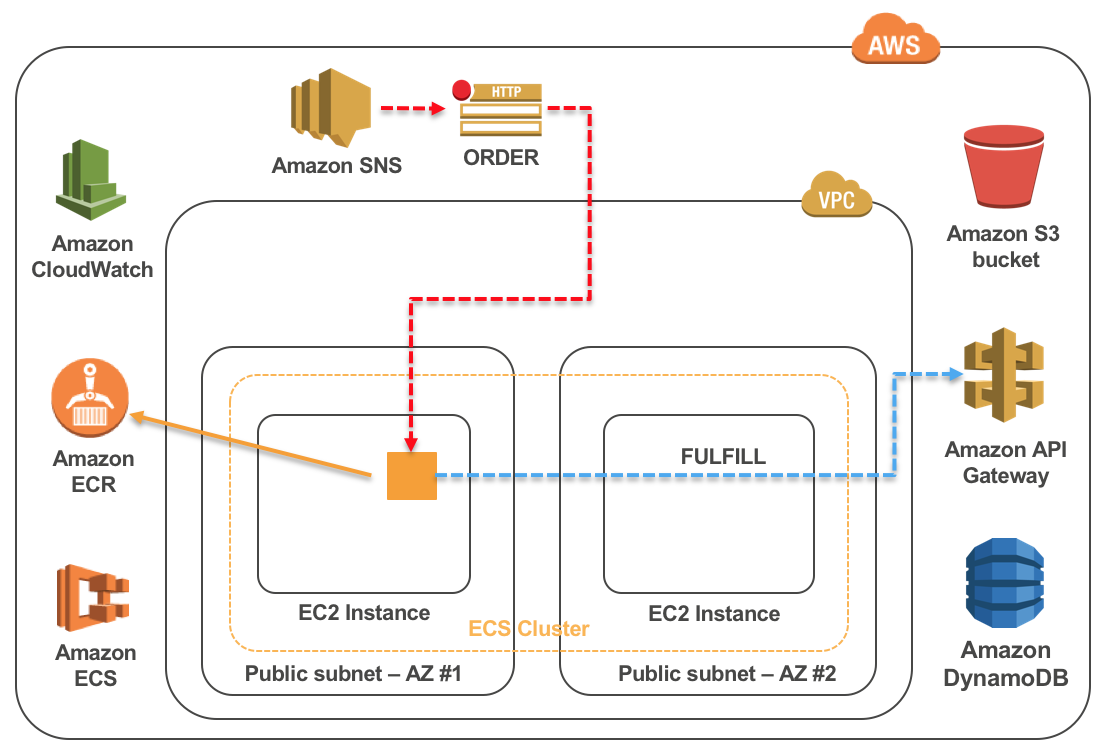
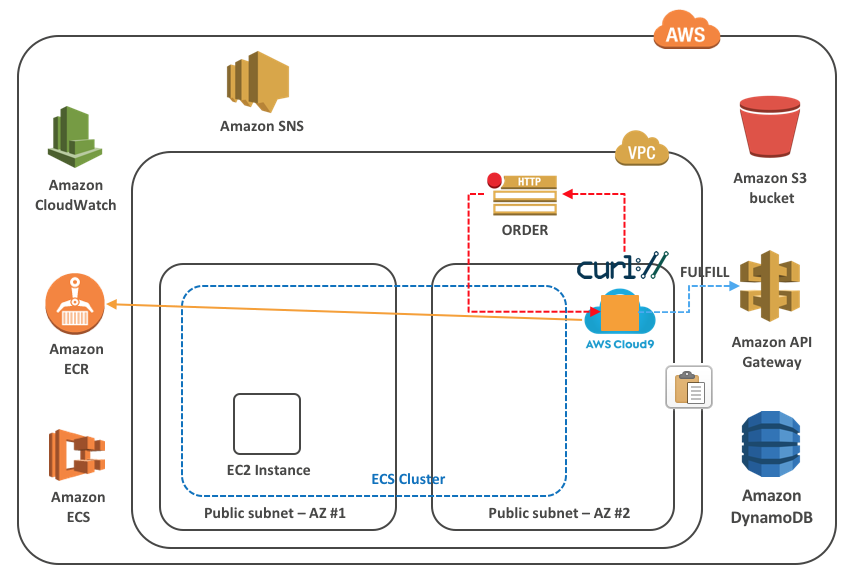
updated arch diagrams for workshop setup and lab 1, instruction edits through end of lab 1

diff --git a/workshop-microservices/readme.md b/workshop-microservices/readme.md
@@ -21,9 +21,9 @@ These labs are designed to be completed in sequence, and the full set of instruc
 
 * **Workshop Setup:** [Setup working environment on AWS](#lets-begin)
 * **Lab 1:** [Containerize the Interstella logistics software](#lab-1---containerize-interstellas-logistics-platform)
-* **Lab 2:** [Deploy containers using Amazon ECR and Amazon ECS](#lab-2---deploy-your-container-using-ecrecs)
+* **Lab 2:** [Deploy the container using Amazon ECS](#lab-2---deploy-your-container-using-ecrecs)
 * **Lab 3:** [Scale the logistics platform with an ALB](#lab-3---scale-the-logistics-platform-with-an-alb)
-* **Lab 4:** [Incrementally build and deploy each resource microservice](#lab-4-incrementally-build-and-deploy-each-microservice)
+* **Lab 4:** [Incrementally build and deploy each resource microservice using AWS Fargate](#lab-4-incrementally-build-and-deploy-each-microservice)
 * **Cleanup** [Put everything away nicely](#workshop-cleanup)
 
 ### Conventions:
@@ -129,9 +129,9 @@ Go ahead and start reading the next section while your stack creates.
 
 ## Lab 1 - Containerize Interstella's logistics platform:
 
-Woah! Turns out Interstella's infrastructure has been running directly on EC2 virtual machines this entire time! Our first step will be to modernize how our code is packaged by containerizing Interstella's current logistics platform, which we'll also refer to as the monolith application.  To do this, you will create a [Dockerfile](https://docs.docker.com/engine/reference/builder/), which is essentially a recipe for [Docker](https://aws.amazon.com/docker) to build a container image.  The EC2 instances provisioned by CloudFormation have the Docker engine running on them, so you can use either one to author the Dockerfile, build the container image, and run it to confirm it's able to process orders.
+Whoa! Turns out Interstella's infrastructure has been running directly on EC2 virtual machines this entire time! Our first step will be to modernize how our code is packaged by containerizing Interstella's current logistics platform, which we'll also refer to as the monolith application.  To do this, you will create a [Dockerfile](https://docs.docker.com/engine/reference/builder/), which is essentially a recipe for [Docker](https://aws.amazon.com/docker) to build a container image.  The CloudFormation template created an [AWS Cloud9](https://aws.amazon.com/cloud9/) development environment which is where you'll author the Dockerfile, build the container image, and run it to confirm it's able to process orders.
 
-[Containers](https://aws.amazon.com/what-are-containers/), are a way to package software (e.g. web server, proxy, database) so that you can run your code and all of its dependencies in a resource isolated process. You might be thinking, "Wait, isn't that a virtual machine (VM)?" Containers virtualize the operating system, while VMs virtualize the hardware. Containers provide isolation, portability and repeatability, so your developers can easily spin up an environment and start building without the heavy lifting.  Importantly, containers ensure your code runs in the same way anywhere, so if it works on your laptop, it will also work in production.
+[Containers](https://aws.amazon.com/what-are-containers/) are a way to package software (e.g. web server, proxy, database) so that you can run your code and all of its dependencies in a resource isolated process. You might be thinking, "Wait, isn't that a virtual machine (VM)?" Containers virtualize the operating system, while VMs virtualize the hardware. Containers provide isolation, portability and repeatability, so your developers can easily spin up an environment and start building without the heavy lifting.  Importantly, containers ensure your code runs in the same way anywhere, so if it works on your laptop, it will also work in production.
 
 ### Here's what we're going to build:
 
@@ -141,6 +141,7 @@ Woah! Turns out Interstella's infrastructure has been running directly on EC2 vi
 
 
 * * *
+
 ### Instructions
 
 1\. Access your AWS Cloud9 Development Environment.
@@ -149,38 +150,38 @@ In the AWS Management Console, go to the [Cloud9 Dashboard](https://console.aws.
 
 ![Cloud9 Env](images/01-c9.png)
 
-2\. Familiarize yourself with the Cloud9 Environment. 
+2\. Familiarize yourself with the Cloud9 Environment.
 
-On the left pane (Blue), you'll see a folder navigation structure where you'll see some files that will be downloaded later. In the middle (Red) pane, any documents you open will show up here. Double click on README.md in the left folder pane and edit the file a bit in the middle. Then save it by clicking **File** and **Save**.
+On the left pane (Blue), you'll see a file tree where you'll see some files that will be downloaded later. In the middle (Red) pane, any documents you open will show up here. Double click on README.md in the left folder pane and edit the file a bit in the middle. Then save it by clicking **File** and **Save**.
 
 ![Cloud9 Editing](images/01-c9-2.png)
 
-On the bottom, you will see a shell (Yellow). For the remainder of the lab, use this shell to enter all commands.
+On the bottom, you will see a bash shell (Yellow). For the remainder of the lab, use this shell to enter all commands.
 
-2\. Once logged into the instance, download the logistics application source, requirements file, and a draft [Dockerfile](https://docs.docker.com/engine/reference/builder/) from Interstella HQ. We'll also take this opportunity to install the [ECR Credential Helper](https://github.com/awslabs/amazon-ecr-credential-helper) to help with authentication (don't worry, we'll explain later).
+3\. Download the logistics application source, requirements file, and a draft [Dockerfile](https://docs.docker.com/engine/reference/builder/) from Interstella HQ. We'll also take this opportunity to install the [ECR Credential Helper](https://github.com/awslabs/amazon-ecr-credential-helper) to help with authentication (don't worry, we'll explain later).
 
 <pre>
-$ aws s3 sync s3://www.interstella.trade/awsloft/code/monolith/ monolith/
+$ aws s3 sync s3://www.interstella.trade/code/monolith/ monolith/
 $ cd monolith
 $ chmod +x installcredhelper.sh
 $ sudo ./installcredhelper.sh
 </pre>
 
-*Note: This is using the [AWS CLI](https://aws.amazon.com/cli/) which was installed using [user data](https://docs.aws.amazon.com/AWSEC2/latest/UserGuide/user-data.html) on launch, and we authorize access to S3 through an [IAM instance profile](https://docs.aws.amazon.com/IAM/latest/UserGuide/id_roles_use_switch-role-ec2_instance-profiles.html).*
+*Note: This is using the [AWS CLI](https://aws.amazon.com/cli/) which comes bundled with Cloud9, and we authorize access to S3 through an [IAM role](https://docs.aws.amazon.com/cloud9/latest/user-guide/auth-and-access-control.html). Also notice the downloaded files appeared in your Cloud9 file tree.*
 
-3\. Review the draft Dockerfile and add the missing instructions indicated by comments in the file.
+4\. Review the draft Dockerfile and add the missing instructions indicated by comments in the file.
 
-*Note: If you're already familiar with how Dockerfiles work and want to focus on breaking the monolith apart into microservices, skip down to ["HINT: Final Dockerfile"](#final-dockerfile) near the end of step 4, create a Dockerfile in the monolith directory with the hint contents, build the "monolith" image, and continue to step 5.  Otherwise continue on...*
+*Note: If you're already familiar with how Dockerfiles work and want to focus on breaking the monolith apart into microservices, skip down to ["HINT: Final Dockerfile"](#final-dockerfile) near the end of step 5, create a Dockerfile in the monolith directory with the hint contents, build the "monolith" image, and continue to step 6.  Otherwise continue on...*
 
 One of Interstella's developers started working on a Dockerfile in her free time, but she was pulled to a high priority project to implement source control (which also explains why you're pulling code from S3).
 
-Use your favorite text editor (vi, nano, emacs are installed) on the instance to open **Dockerfile.draft**.
+In the Cloud9 file tree, click on the **monolith** folder to expand it, and double-click on **Dockerfile.draft** to open the file for editing.
 
-*Note: If you'd like to install another editor, feel free to do so using [yum](http://docs.aws.amazon.com/AWSEC2/latest/UserGuide/install-software.html).*
+*Note: If you would prefer to use the bash shell and a text editor like vi or emacs instead, you're welcome to do so.*
 
 Review the contents, and you'll see a few comments at the end of the file noting what still needs to be done.  Comments are denoted by a "#".
 
-Docker builds container images by stepping through the instructions listed in the Dockerfile.  Docker is built on this idea of layers starting with a base and executing each instruction that introduces change as a new layer.  It caches each layer, so as you develop and rebuild the image, Docker will reuse layers (often referred to as intermediate layers) from cache if no modifications were made.  Once it reaches the layer where edits are introduced, it will build a new intermediate layer and associate it with this particular build.  This makes tasks like image rebuild very efficient and you can easily maintain multiple build versions.
+Docker builds container images by stepping through the instructions listed in the Dockerfile.  Docker is built on this idea of layers starting with a base and executing each instruction that introduces change as a new layer.  It caches each layer, so as you develop and rebuild the image, Docker will reuse layers (often referred to as intermediate layers) from cache if no modifications were made.  Once it reaches the layer where edits are introduced, it will build a new intermediate layer and associate it with this particular build.  This makes tasks like image rebuild very efficient, and you can easily maintain multiple build versions.
 
 ![Docker Container Image](images/01-container-image.png)
 
@@ -264,7 +265,7 @@ If your Dockerfile looks good, rename your file from "Dockerfile.draft" to "Dock
 $ mv Dockerfile.draft Dockerfile
 </pre>
 
-4\. Build the image using the [Docker build](https://docs.docker.com/engine/reference/commandline/build/) command.
+5\. Build the image using the [Docker build](https://docs.docker.com/engine/reference/commandline/build/) command.
 
 This command needs to be run in the same directory where your Dockerfile is. **Note the trailing period** which tells the build command to look in the current directory for the Dockerfile.
 
@@ -285,8 +286,6 @@ Successfully built 7f51e5d00cee
 *Note: Your output will not be exactly like this, but it will be similar.*
 
 Awesome, your Dockerfile built successfully, but our developer didn't optimize the Dockefile for the microservices effort later.  Since you'll be breaking apart the monolith codebase into microservices, you will be editing the source code (i.e. monolith.py) often and rebuilding this image a few times.  Looking at your existing Dockerfile, what is one thing you can do to improve build times?
-
-Edit your Dockerfile with what you think will improve build times and compare it with the hint below.
 
 <details>
 <summary>HINT</summary>
@@ -332,7 +331,10 @@ Collecting Flask==0.12.2 (from -r requirements.txt (line 1))
 Try reordering the instructions in your Dockerfile to copy the monolith code over after the requirements are installed.  The thinking here is that monolith.py will see more changes than the dependencies noted in requirements.txt, so why rebuild requirements every time when we can just have it be another cached layer.
 </details>
 
-##### Final Dockerfile
+Edit your Dockerfile with what you think will improve build times and compare it with the Final Dockerfile hint below.
+
+
+#### Final Dockerfile
 <details>
 <summary>HINT: Final Dockerfile</summary>
 <pre>
@@ -375,7 +377,7 @@ ENTRYPOINT ["bin/python", "monolith.py"]
 </pre>
 </details>
 
-To see the benefit of your optimizations, you'll need to first rebuild the monolith image using your new Dockerfile (use the same build command at the beginning of step 4).  Then, introduce a change in monolith.py (e.g. add another arbitrary comment) and rebuild the monolith image again.  Docker cached the requirements during the first rebuild after the re-ordering and references cache during this second rebuild.  You should see something similar to below:
+To see the benefit of your optimizations, you'll need to first rebuild the monolith image using your new Dockerfile (use the same build command at the beginning of step 5).  Then, introduce a change in monolith.py (e.g. add another arbitrary comment) and rebuild the monolith image again.  Docker cached the requirements during the first rebuild after the re-ordering and references cache during this second rebuild.  You should see something similar to below:
 
 <pre>
 Step 11/15 : COPY ./requirements.txt .
@@ -399,7 +401,7 @@ $ docker images
 Here's a sample output, note the monolith image in the list:
 
 <pre>
-[ec2-user@ip-10-177-10-249 ~]$ docker images
+whiterabbit:~/environment/monolith $ docker images
 REPOSITORY               TAG        IMAGE ID        CREATED             SIZE
 monolith                 latest     87d3de20e191    17 seconds ago      532 MB
 &lt;none&gt;                   &lt;none&gt;     850d78c7aa5f    27 minutes ago      735 MB
@@ -412,7 +414,7 @@ amazon/amazon-ecs-agent  latest     96e5393c89d4    6 weeks ago         25.4 MB
 
 Notice the image is also tagged as "latest".  This is the default behavior if you do not specify a tag of your own, but you can use this as a freeform way to identify an image, e.g. monolith:1.2 or monolith:experimental.  This is very convenient for identifying your images and correlating an image with a branch/version of code as well.
 
-5\. Run the docker container and test the logistics platform running as a container to make sure it is able to fulfill an order.
+6\. Run the docker container and test the logistics platform running as a container to make sure it is able to fulfill an order.
 
 Use the [docker run](https://docs.docker.com/engine/reference/run/) command to run your image; the -p flag is used to map the host listening port to the container listening port.
 
@@ -423,7 +425,7 @@ $ docker run -p 5000:5000 monolith
 Here's sample output as the application starts:
 
 <pre>
-[ec2-user@ip-10-177-10-116 monolith]$ docker run -p 5000:5000 monolith
+whiterabbit:~/environment/monolith $ docker run -p 5000:5000 monolith
 INFO:botocore.vendored.requests.packages.urllib3.connectionpool:Starting new HTTP connection (1): 169.254.169.254
 INFO:botocore.vendored.requests.packages.urllib3.connectionpool:Starting new HTTP connection (1): 169.254.169.254
 INFO:botocore.vendored.requests.packages.urllib3.connectionpool:Starting new HTTPS connection (1): ssm.us-east-2.amazonaws.com
@@ -438,17 +440,17 @@ INFO:werkzeug: * Debugger PIN: 410-791-646
 
 *Note: Your output will not be exactly like this, but it will be similar.*
 
-To test order processing, send a sample JSON payload simulating an incoming order using a utility like [cURL](https://curl.haxx.se/).
+To test order processing, send a sample JSON payload simulating an incoming order using a utility like [cURL](https://curl.haxx.se/), which is bundled with Cloud9.
 
-*Mac or Linux Users*: cURL should come bundled with the OS, so open a new Terminal window to run the following curl command.
-
-*Windows Users*: SSH into the other EC2 instance launched by CloudFormation and run the following curl command.
+Click on the plus sign next to your tabs and choose **New Terminal** or click **Window** -> **New Terminal** from the Cloud9 menu to open a new shell session to run the following curl command.
 
 <pre>
-$ curl -H "Content-Type: application/json" -X POST -d '{"Message":{"bundle":"1"}}' http://<b><i>EC2_PUBLIC_IP_ADDRESS</b></i>:5000/order/
+$ curl -H "Content-Type: application/json" -X POST -d '{"Message":{"bundle":"1"}}' http://localhost:5000/order/
 </pre>
 
-*Note: The EC2_PUBLIC_IP_ADDRESS value is the public IP address of the EC2 instance running your monolith container*
+You should see the curl command return "Your order has been fulfilled".
+
+Switch back to the original shell tab where you're running the monolith container to check the output from the logistics platform.
 
 The monolith container runs in the foreground with stdout/stderr printing to the screen, so when the simulated order payload `{"Message":{"bundle":"1"}}` is received, you should see the order get processed and return a `200`. "OK".
 
@@ -464,16 +466,7 @@ Bundle fulfilled
 INFO:werkzeug:18.218.142.240 - - [06/Feb/2018 09:51:10] "POST /order/ HTTP/1.1" 200 -
 </pre>
 
-The cURL client will also receive a response saying "Your order has been fulfilled" from the logistics platform.
-
-Here is a sample output:
-
-<pre>
-$ curl -H "Content-Type: application/json" -X POST -d '{"Message":{"bundle":"1"}}' http://18.218.214.234:5000/order/
-Your order has been fulfilled
-</pre>
-
-In the SSH session where you have the running container, type **Ctrl-C** to stop the running container.  Notice, the container ran in the foreground with stdout/stderr printing to the console.  In a production environment, you would run your containers in the background as processes and configure some logging destination.  We'll worry about logging later, but you can try running the container in the background using the -d flag.
+In the tab you have the running container, type **Ctrl-C** to stop the running container.  Notice, the container ran in the foreground with stdout/stderr printing to the console.  In a production environment, you would run your containers in the background as processes and configure some logging destination.  We'll worry about logging later, but you can try running the container in the background using the -d flag.
 
 <pre>
 $ docker run -d -p 5000:5000 monolith
@@ -485,7 +478,7 @@ List running docker containers with the [docker ps](https://docs.docker.com/engi
 $ docker ps
 </pre>
 
-You should see monolith running in the list.  Additionally confirm that orders are being processed by attaching stdin/stdout/stderr to the container with the [docker attach](https://docs.docker.com/engine/reference/commandline/attach/) command and using the same curl command to send another simulated order JSON payload to your container.  The attach command expects a container name, and you can find the running name of your container from the output of the 'docker ps' command (last column on the right).  If the container is running as expected, you should see output from the simulated order being processed.
+You should see monolith running in the list.  Additionally confirm that orders are being processed by attaching stdin/stdout/stderr to the container with the [docker attach](https://docs.docker.com/engine/reference/commandline/attach/) command and using the same curl command (from the other tab where you ran curl earlier) to send another simulated order JSON payload to your container.  The attach command expects a container name, and you can find the running name of your container from the output of the 'docker ps' command (last column on the right).  If the container is running as expected, you should see output from the simulated order being processed.
 
 <pre>
 $ docker attach <b><i>CONTAINER_NAME</i></b>
@@ -494,13 +487,13 @@ $ docker attach <b><i>CONTAINER_NAME</i></b>
 Here's sample output from the above commands:
 
 <pre>
-[ec2-user@ip-10-177-10-116 monolith]$ docker run -d -p 5000:5000 monolith
+whiterabbit:~/environment/monolith $ docker run -d -p 5000:5000 monolith
[1 lines of base64/hex data omitted]
-[ec2-user@ip-10-177-10-116 monolith]$ docker ps
+whiterabbit:~/environment/monolith $ docker ps
 CONTAINER ID        IMAGE                            COMMAND                  CREATED             STATUS              PORTS                    NAMES
 21ee17c20648        monolith                         "bin/python monoli..."   3 seconds ago       Up 2 seconds        0.0.0.0:5000->5000/tcp   distracted_volhard
 8b97f6eb4581        amazon/amazon-ecs-agent:latest   "/agent"                 3 hours ago         Up 3 hours                                   ecs-agent
-[ec2-user@ip-10-177-10-116 monolith]$ docker attach distracted_volhard
+whiterabbit:~/environment/monolith $ docker attach distracted_volhard
 Gathering Requested Items
 Getting Iridium
 Getting Magnesite
@@ -510,9 +503,9 @@ Bundle fulfilled
 INFO:werkzeug:96.40.120.185 - - [06/Feb/2018 10:14:02] "POST /order/ HTTP/1.1" 200 -
 </pre>
 
-In the sample output, the container was assigned the name "disatracted_volhard".  Names are arbitrarily assigned.  You can also pass the docker run command a name option if you want to specify the running name.  You can read more about it in the [Docker run reference](https://docs.docker.com/engine/reference/run/).  Kill the container using **Ctrl-C** now that we know it's working properly.
+In the sample output above, the container was assigned the name "disatracted_volhard".  Names are arbitrarily assigned.  You can also pass the docker run command a name option if you want to specify the running name.  You can read more about it in the [Docker run reference](https://docs.docker.com/engine/reference/run/).  Kill the container using **Ctrl-C** now that we know it's working properly.
 
-6\. Now that you have a working Docker image, tag and push the image to [Elastic Container Registry (ECR)](https://aws.amazon.com/ecr/).  ECR is a fully-managed Docker container registry that makes it easy to store, manage, and deploy Docker container images. In the next lab, we'll use ECS to pull your image from ECR.
+7\. Now that you have a working Docker image, tag and push the image to [Elastic Container Registry (ECR)](https://aws.amazon.com/ecr/).  ECR is a fully-managed Docker container registry that makes it easy to store, manage, and deploy Docker container images. In the next lab, we'll use ECS to pull your image from ECR.
 
 In the AWS Management Console, navigate to the [ECS dashboard](https://console.aws.amazon.com/ecs/) and click on **Repositories** in the left menu.  You should see repositories for monolith and each microservice (iridium and magnesite).  These were created by CloudFormation and prefixed with the *EnvironmentName* (in the example below, I used 'interstella' as my EnvironmentName) specified during stack creation.
 
@@ -536,8 +529,8 @@ When you issue the push command, Docker pushes the layers up to ECR.
 Here's sample output from these commands:
 
 <pre>
-[ec2-user@ip-10-177-10-116 monolith]$ docker tag monolith:latest 873896820536.dkr.ecr.us-east-2.amazonaws.com/interstella-monolith:latest
-[ec2-user@ip-10-177-10-116 monolith]$ docker push 873896820536.dkr.ecr.us-east-2.amazonaws.com/interstella-monolith:latest
+whiterabbit:~/environment/monolith $ docker tag monolith:latest 873896820536.dkr.ecr.us-east-2.amazonaws.com/interstella-monolith:latest
+whiterabbit:~/environment/monolith $ docker push 873896820536.dkr.ecr.us-east-2.amazonaws.com/interstella-monolith:latest
 The push refers to a repository [873896820536.dkr.ecr.us-east-2.amazonaws.com/interstella-monolith]
 0f03d692d842: Pushed
 ddca409d6822: Pushed
@@ -587,6 +580,10 @@ In this lab, you will create a task definition and configure logging to serve as
 ![Lab 2 Architecture](images/02-arch.png)
 
 *Note: You will use the AWS Management Console for this lab, but remember that you can programmatically accomplish the same thing using the AWS CLI, SDKs, or CloudFormation.*
+
+* * *
+
+### Instructions
 
 1\. Create an ECS task definition that describes what is needed to run the monolith and enable logging.
 
@@ -715,6 +712,10 @@ In this lab, you will implement an Elastic Load Balancing [Appliction Load Balan
 What ties this all together is an **ECS Service**, which maintains a desired task count (i.e. n number of containers as long running processes) and integrates with the ALB (i.e. handles registration/deregistration of containers to the ALB). Now you will start the service, configure the ALB, and then subscribe the ALB endpoint to the orders SNS topic to start the order flow.
 
 ![Lab 3 Architecture](images/03-arch.png)
+
+* * *
+
+### Instructions
 
 1\. Create an Application Load Balancer.
 
@@ -845,7 +846,7 @@ Sweet! You've implemented an ALB as a way to distribute incoming HTTP orders to 
 
 * * *
 
-## Lab 4: Incrementally build and deploy each microservice
+## Lab 4: Incrementally build and deploy each microservice using Fargate
 
 It's time to break apart Interstella's monolith logistics platform into microservices. To help with this, let's see how the monolith works in more detail.
 
@@ -869,6 +870,10 @@ Here's what you will be implementing:
 ![Lab 4](images/04-arch.png)
 
 *Note: The capital 'M' denotes the monolith and 'm' a microservice*
+
+* * *
+
+### Instructions
 
 1\. First, build the Iridium service container image and push it to ECR.
 
